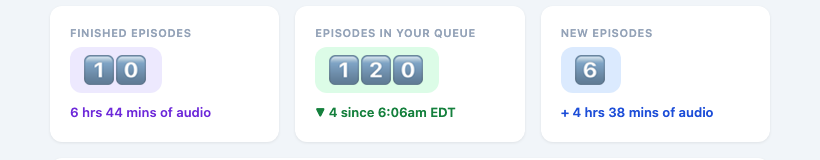
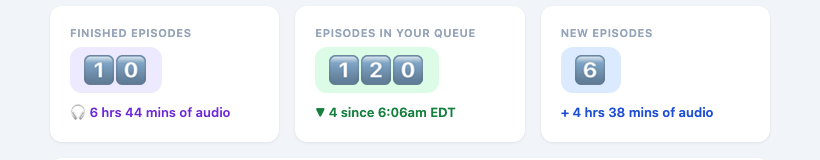
Finished episodes card: headphones glyph

Changed region(s): [[0.061, 0.6562, 0.3049, 0.75]]

diff --git a/flow.py b/flow.py
@@ -948,7 +948,7 @@ def queue_card(qs, qe, tz=None):
 def finished_card(s, qs, tz=None):
     """How many episodes you finished, in indigo, with the audio they add up to."""
     n = s["listened_count"]
-    sub = f"{dur_n(s['listened_seconds'], 2)} of audio"
+    sub = f"\U0001F3A7 {dur_n(s['listened_seconds'], 2)} of audio"
     return pill_card("Finished episodes", n, "#ede9fe", "#6d28d9", html.escape(sub))
 
 
